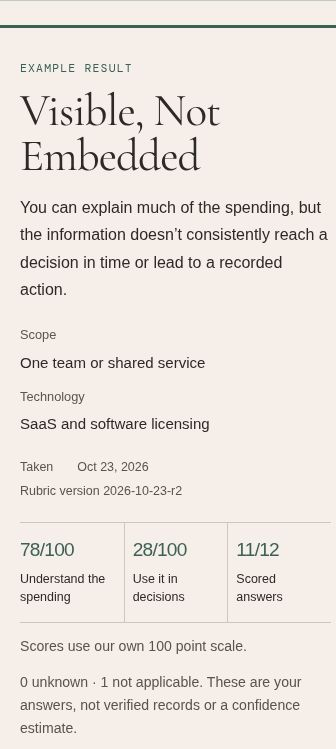
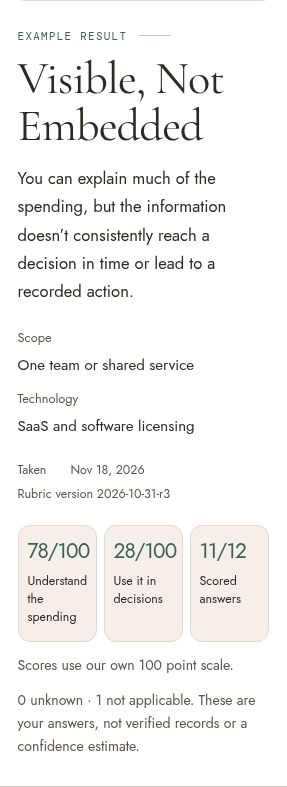
Keep the Signal Audit walkthrough aligned with the current tool

Changed region(s): [[0.0557, 0.4299, 0.9199, 0.9826], [0.0, 0.0307, 1.0, 0.3992], [0.9199, 0.6756, 0.9477, 0.7984]]

diff --git a/src/data/toolDirectory.ts b/src/data/toolDirectory.ts
@@ -95,7 +95,7 @@ export const directoryTools: DirectoryTool[] = [
     destination: 'signal_audit', source: 'work_decision_tools', tone: 'sage',
     image: '/images/signal-audit-result-review.jpg',
     imageAlt: 'An actual Signal Audit example with 78 out of 100 for understanding spending and 28 out of 100 for using it in decisions',
-    imageWidth: 1080, imageHeight: 555, imageLabel: 'Example answers',
+    imageWidth: 1015, imageHeight: 518, imageLabel: 'Example answers',
     companion: { label: 'Use the result with me', href: '/insights/using-signal-audit' },
   },
 ];
